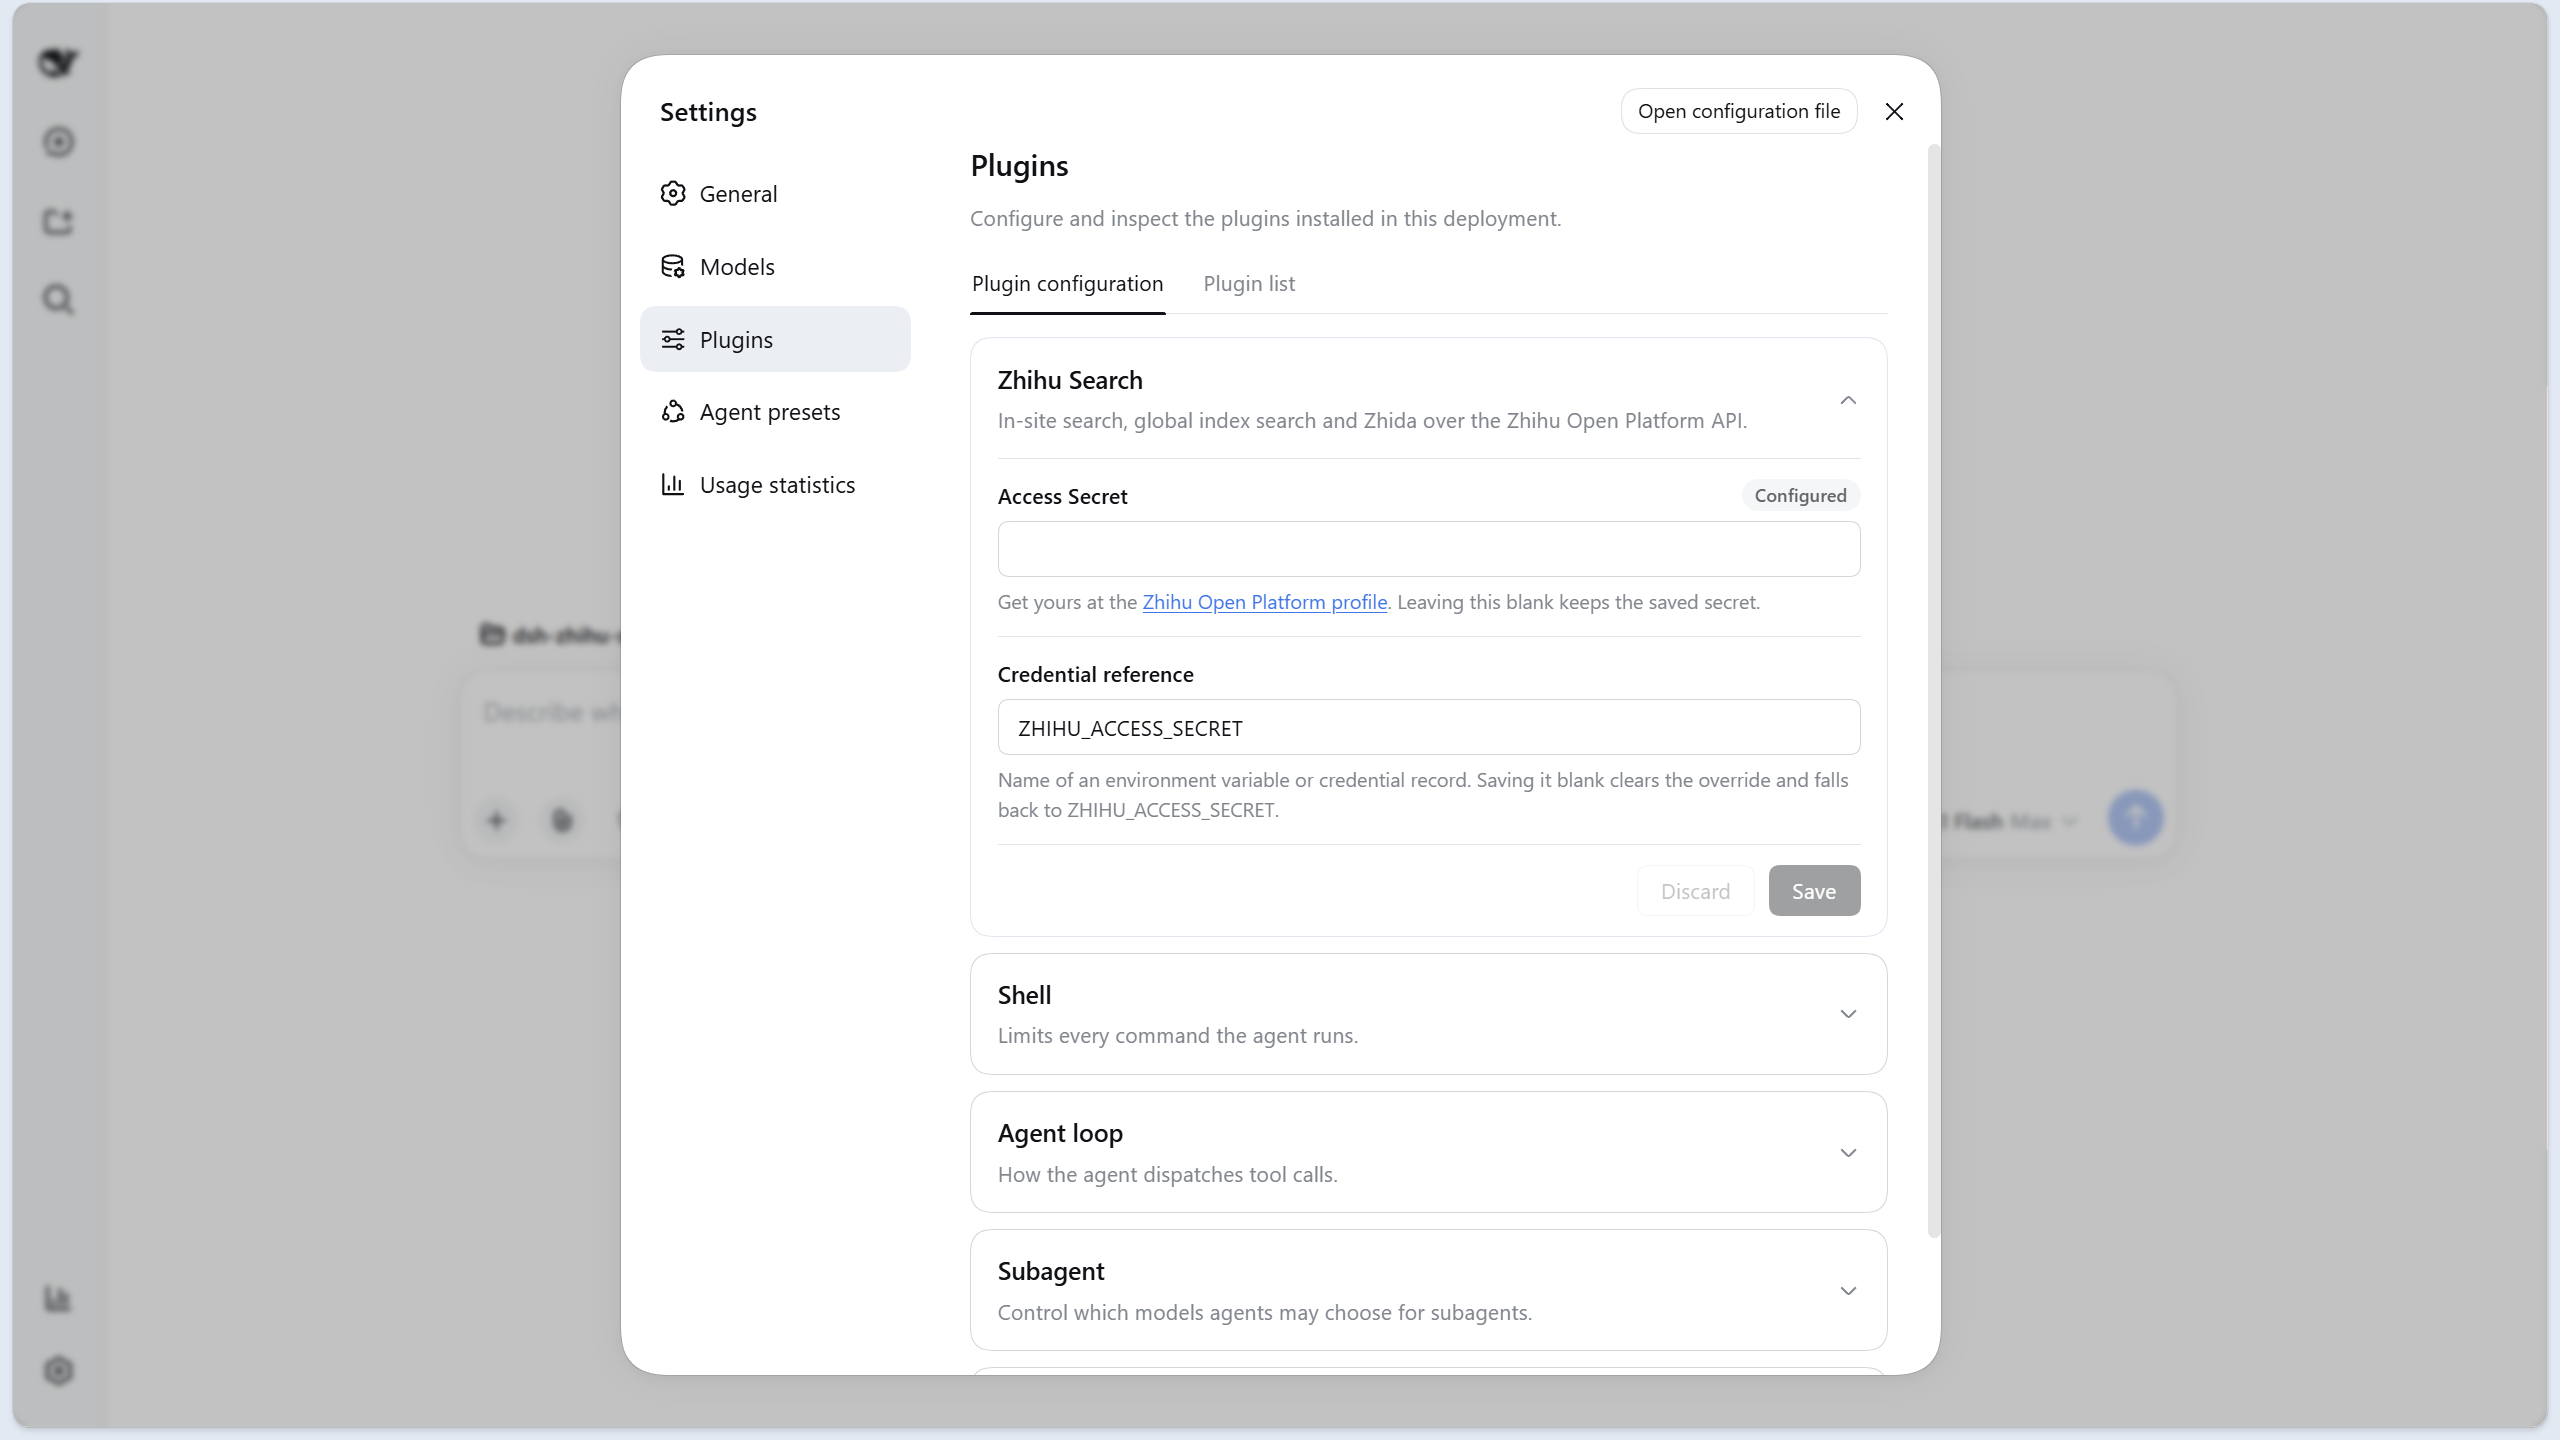
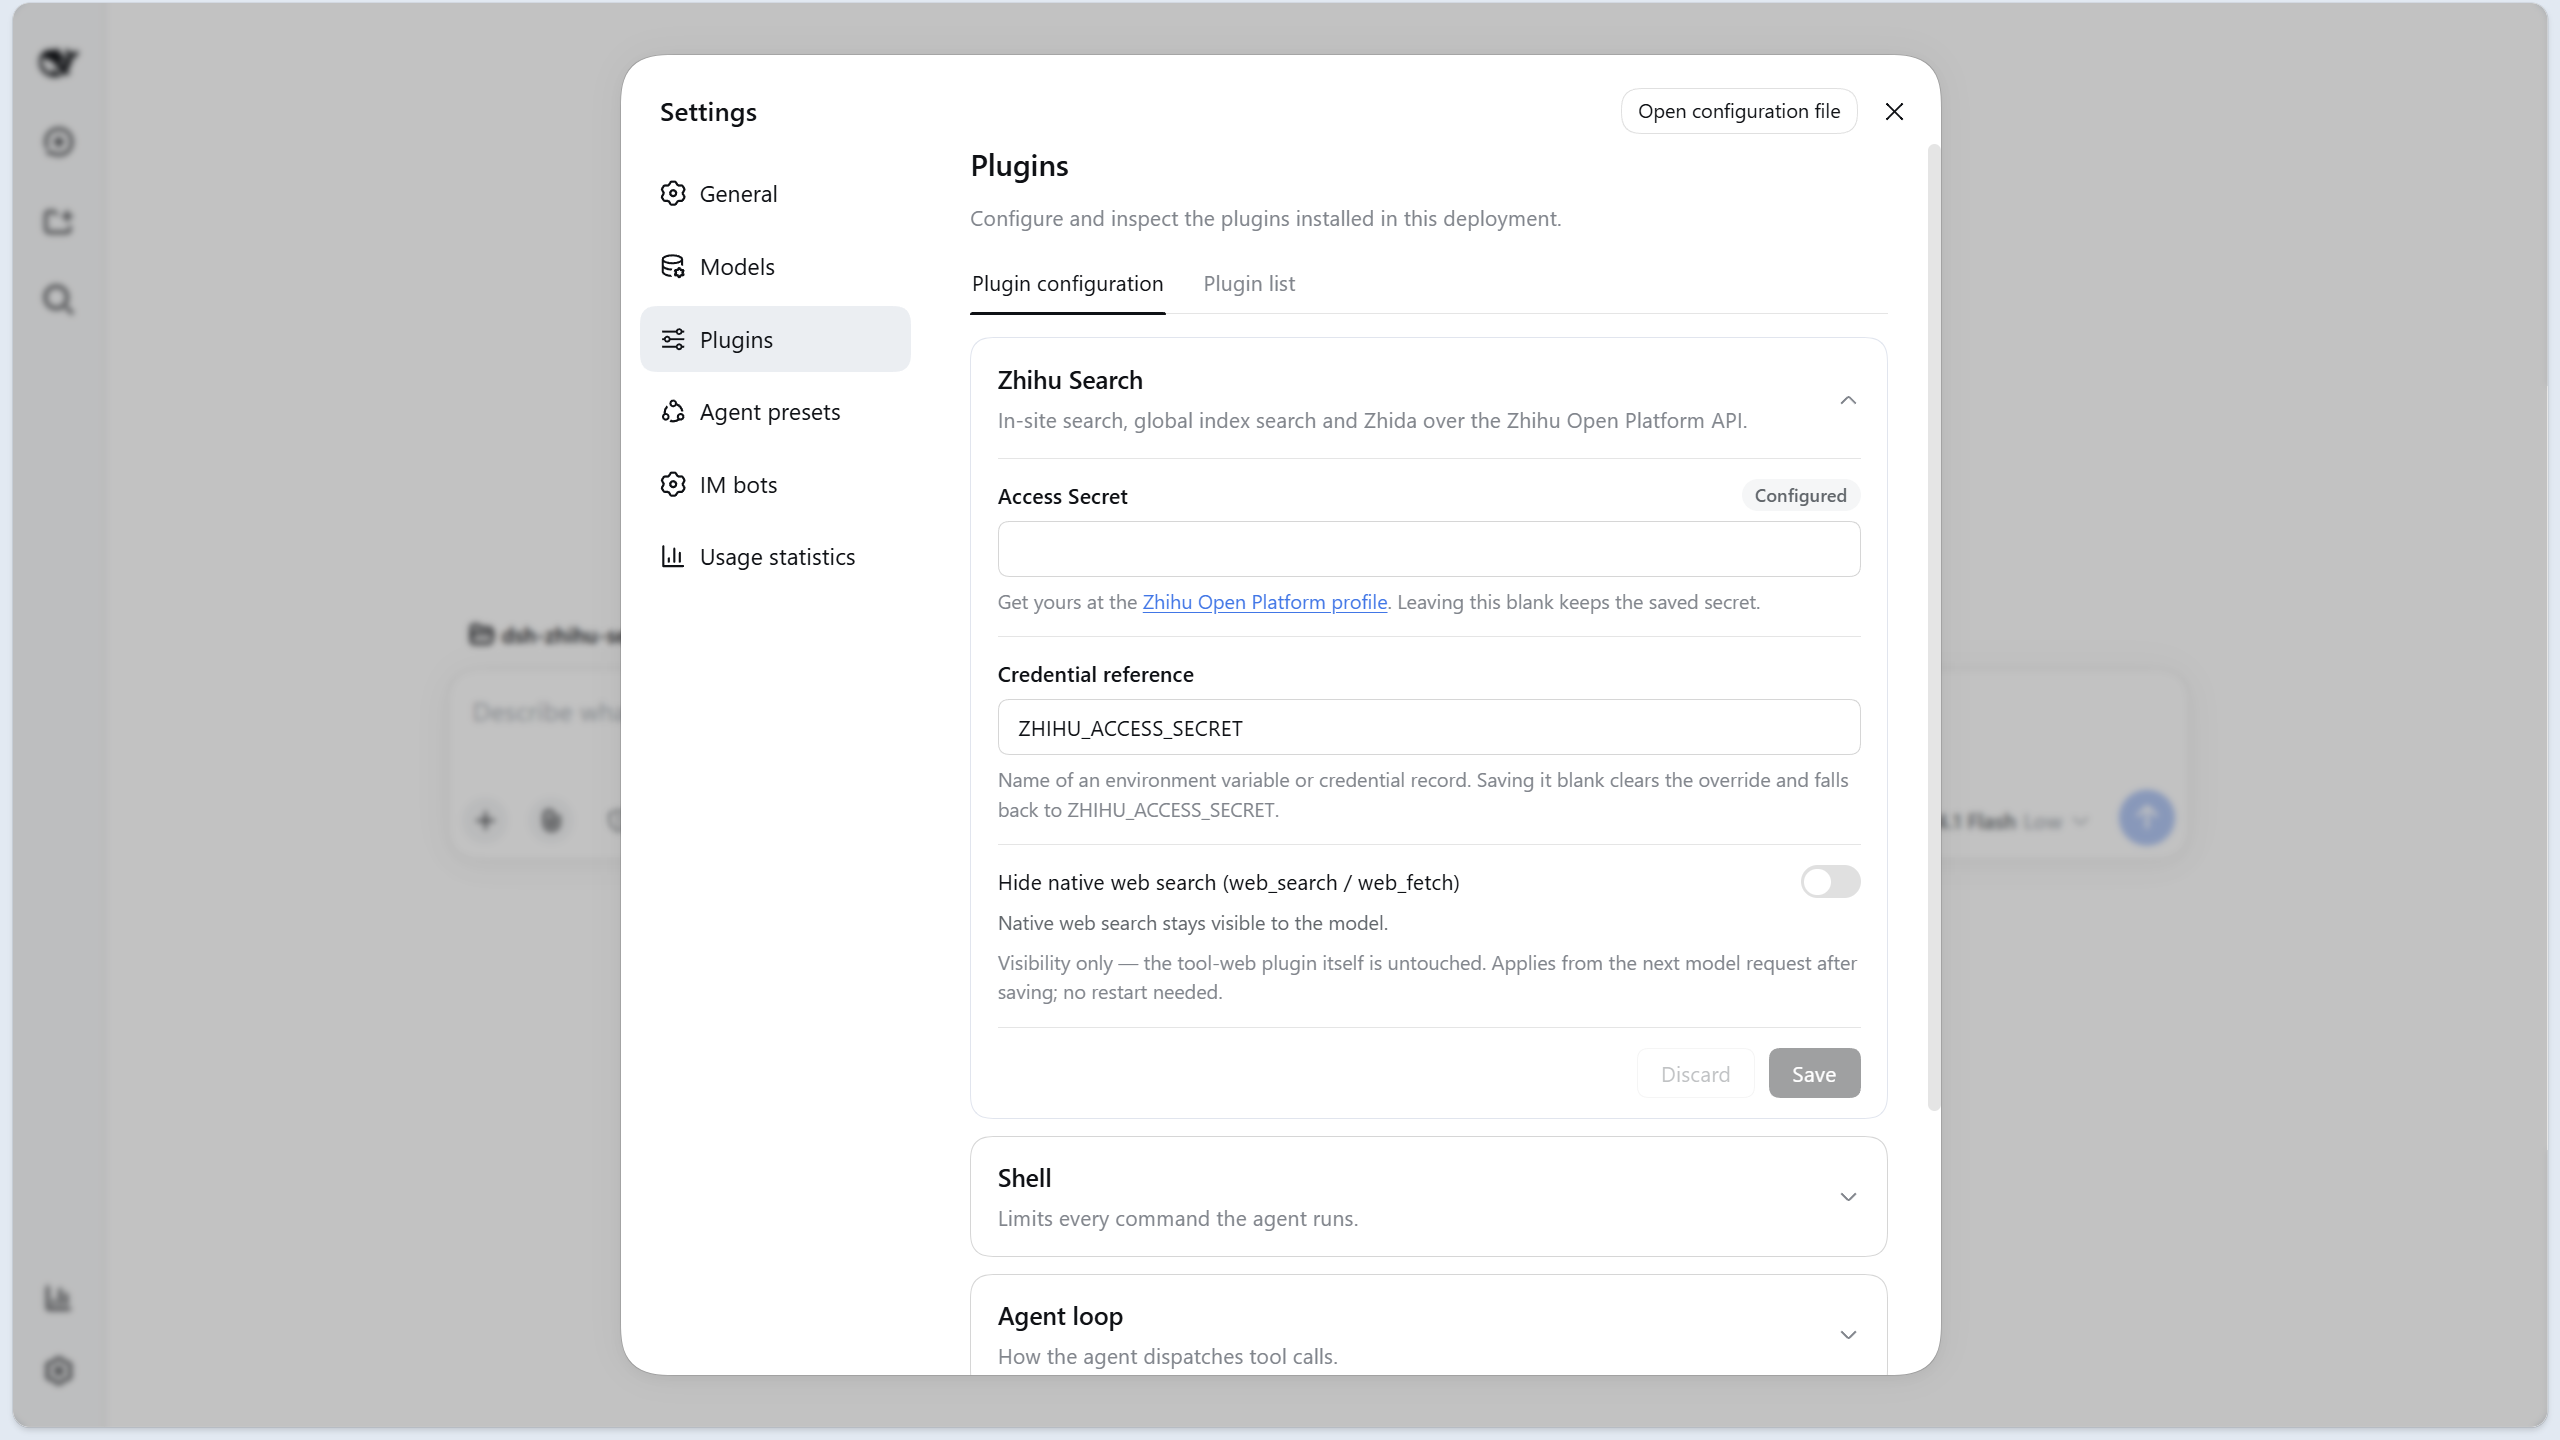
docs: refresh the settings-card screenshots for the polished card
The new shots show the hide-native-web-search row, its state line and the reworked hint. Docs and images only: assets never enter the package (npm rewrites readme image paths to the default branch), so this needs no release.

diff --git a/src/client/README.md b/src/client/README.md
@@ -15,7 +15,7 @@
 - 说明行里的外链只用 `--dsw-alias-link` 令牌；卡片是纯内联样式、写不了 `:hover`，因此常驻下划线作为静态可点提示。
 - 底部：失败诊断 + 「放弃」+「保存」；保存成功且 Host 回读确认后才折叠。
 - 取值逐条抄自官方 `PluginCard.module.css` 与 `fields.module.css`，只用 `--dsw-alias-*` 令牌。
-- 开关行（「隐藏原生网页搜索」）用官方 `Switch`（同在 `ui-primitives`），行布局抄官方 `SubagentModelSelectionCard.module.css` 的 `.toggleRow` / `.toggleLabel`，外观因此与官方卡片同款。
+- 开关行（「隐藏原生网页搜索」）用官方 `Switch`（同在 `ui-primitives`），行布局抄官方 `SubagentModelSelectionCard.module.css` 的 `.toggleRow` / `.toggleLabel`，外观因此与官方卡片同款；其下再一行**状态行**随开关换文案（同官方写法），让用户不必从开关位置反推它做了什么。
 - 文案全部取自 [locales.ts](locales.ts) 的字典，组件不写死字符串。字典把命名空间合并进 `LocaleNamespaceMap`，key 拼错或漏一种语言都是**编译错误**。
 
 `Tag` 与折叠图标来自 `@deepseek-ai/dsh-client-ui-primitives`。它是外壳预置模块（`PLATFORM_MODULES`），不是别的插件，因此可以直接用，不需要 `dsh.client.inject` 边。

diff --git a/AGENTS.md b/AGENTS.md
@@ -42,6 +42,7 @@
 - 本机 `npm run build` / `npm run typecheck` / `npm test` 全绿
 - 装入运行中的 web profile；设置面板出现卡片；经 DSH 工具管线实调 `zhihu_search` / `zhihu_global_search` 返回真实结果
 - 发版链路：v1.2.8 首次由单一入口实跑 —— OIDC 发布、tag、GitHub Release 在一次运行内同步落地
+- 「隐藏原生网页工具」：v1.3.1 在真机 profile 上行为验证通过 —— 开关打开后模型的工具面失去 `web_search` / `web_fetch`，关闭即恢复
 
 ## 待办
 
